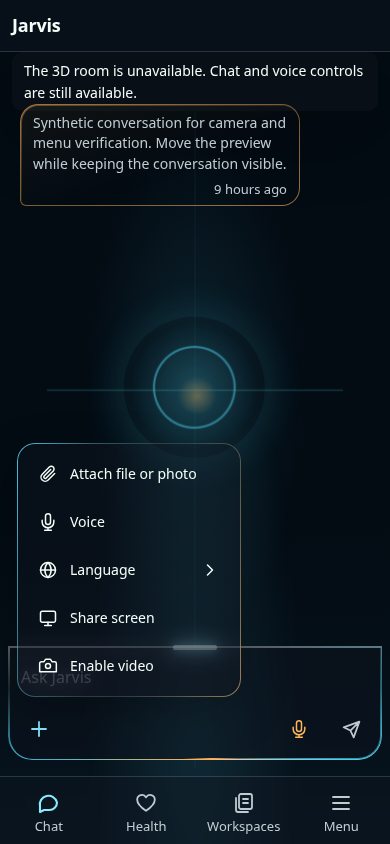
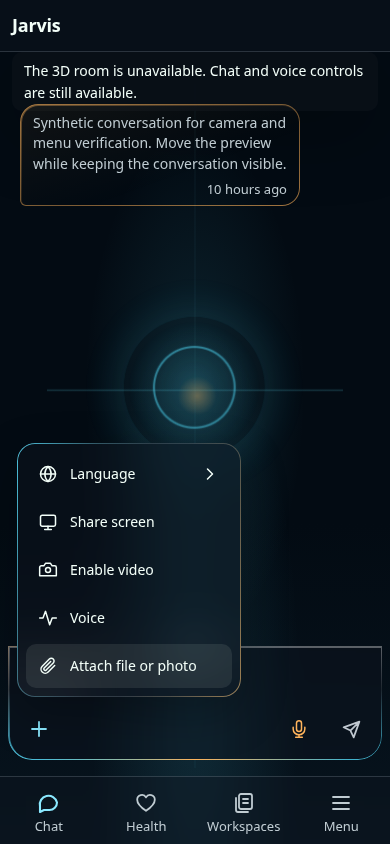
test: verify camera narration with integrated menu

diff --git a/docs/ui/screenshots/1317/README.md b/docs/ui/screenshots/1317/README.md
@@ -135,3 +135,22 @@ no duplicates, unchanged unsent draft/focus and preserved older-history position
 The browser fixture now checks multiple visible synthetic ongoing descriptions,
 rather than inferring visible narration from frame POST counts. Live model
 natural-language intent selection remains unverified.
+
+## Menu integration (26 October, 15:39 UTC)
+
+Rebased without conflicts onto menu main
+`1c1029a31ce2c3008c9e721cdaf9ba2647a1febb`. The camera patch leaves
+ConversationMoreMenu and its CSS unchanged; composer topLayer opt-in, native
+manual popovers, anchored animation-frame positioning, waveform icon and
+Language/capture/Voice/Attach ordering are retained.
+
+Camera browser checks passed again at 320/390px touch and 1440px desktop with
+three successive visible descriptions, five accepted frames each, zero after
+stop and no page errors. Refreshed screenshots show the combined menu. The
+unchanged #1319 browser regression also passed at 390/1440px in light/dark themes:
+rendered/keyboard order, native top layer, 24px popup blur and unchanged 10px
+composer blur/fill, hit testing, viewport anchoring, repeated toggles, Language
+flyout, file-picker anchoring/cancellation, reduced motion and zero page errors.
+Its measurements are copied as `menu-measurements.json`; only its output path
+and local Vite port were adapted. Final aggregate and exact-head hosted results
+are recorded in PR #1318 so the tested review head remains unchanged.

diff --git a/PLAN.md b/PLAN.md
@@ -4,7 +4,7 @@ Implementation on `fix/1317-unified-camera`: automatic sampled-frame delivery,
 truthful receiving status, explicit standing narration, approved removal of the
 user-inactivity cutoff, permission-checked Jarvis start/stop, obsolete camera action
 cleanup and bounded lifecycle. Local checks and synthetic browser evidence are
-in `docs/ui/screenshots/1317/README.md`. Rebased onto combined main `496182bc` without conflicts; independent integration
+in `docs/ui/screenshots/1317/README.md`. Rebased onto combined menu main `1c1029a3` without conflicts; independent integration
 review passed. Exact-head hosted qualification remains before the authorized normal
 merge/deployment workflow; no production release is claimed yet.
 
